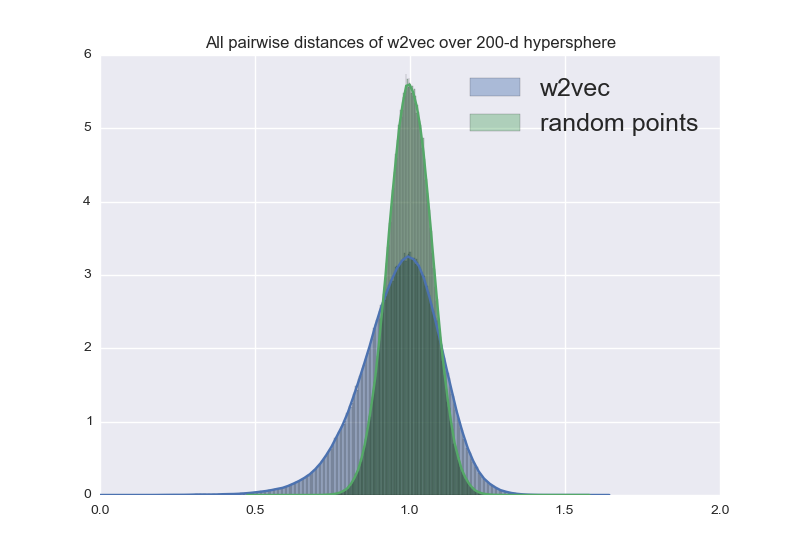
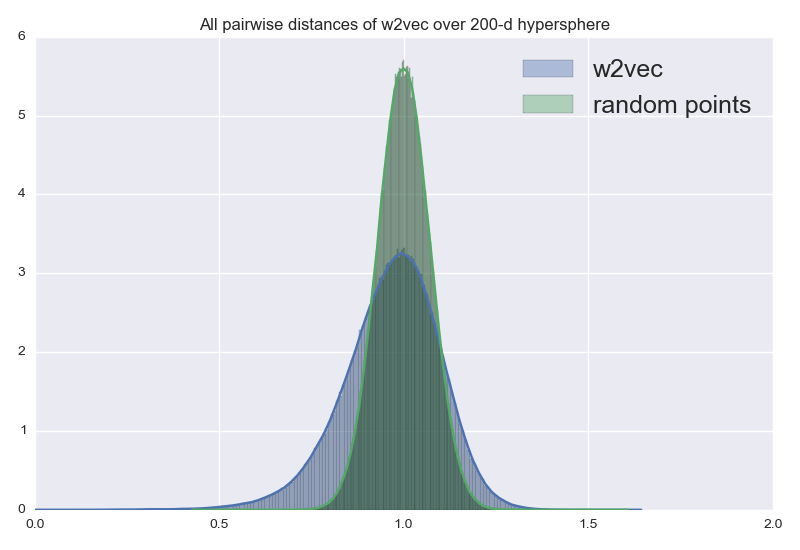
Updated plots to have less whitespace

Changed region(s): [[0.0625, 0.1236, 0.7812, 0.9582], [0.25, 0.0309, 0.9375, 0.2473], [0.0312, 0.9273, 0.0625, 0.9582]]

diff --git a/src_plots/spatial_test.py b/src_plots/spatial_test.py
@@ -39,5 +39,7 @@ sns.plt.title("All pairwise distances of w2vec over {}-d hypersphere".format(dim
 sns.plt.xlim(0,2)
 os.system('mkdir -p figures')
 f_png = 'figures/hypersphere_dist.png'
+
+sns.plt.tight_layout()
 sns.plt.savefig(f_png, bbox_inches=None)
 sns.plt.show()

diff --git a/src_plots/repeated_letter_plot.py b/src_plots/repeated_letter_plot.py
@@ -72,5 +72,7 @@ plt.xticks(range(min_n, max_n))
 
 os.system('mkdir -p figures')
 f_png = 'figures/repeated_letters.png'
-plt.savefig(f_png, bbox_inches=None)
+
+sns.plt.tight_layout()
+sns.plt.savefig(f_png, bbox_inches=None)
 plt.show()

diff --git a/src_plots/plot_diffs.py b/src_plots/plot_diffs.py
@@ -68,7 +68,6 @@ plt.tight_layout()
 os.system('mkdir -p figures')
 f_png = 'figures/similarity_map.png'
 plt.savefig(f_png, bbox_inches=None)
-
 plt.show()
 
 
